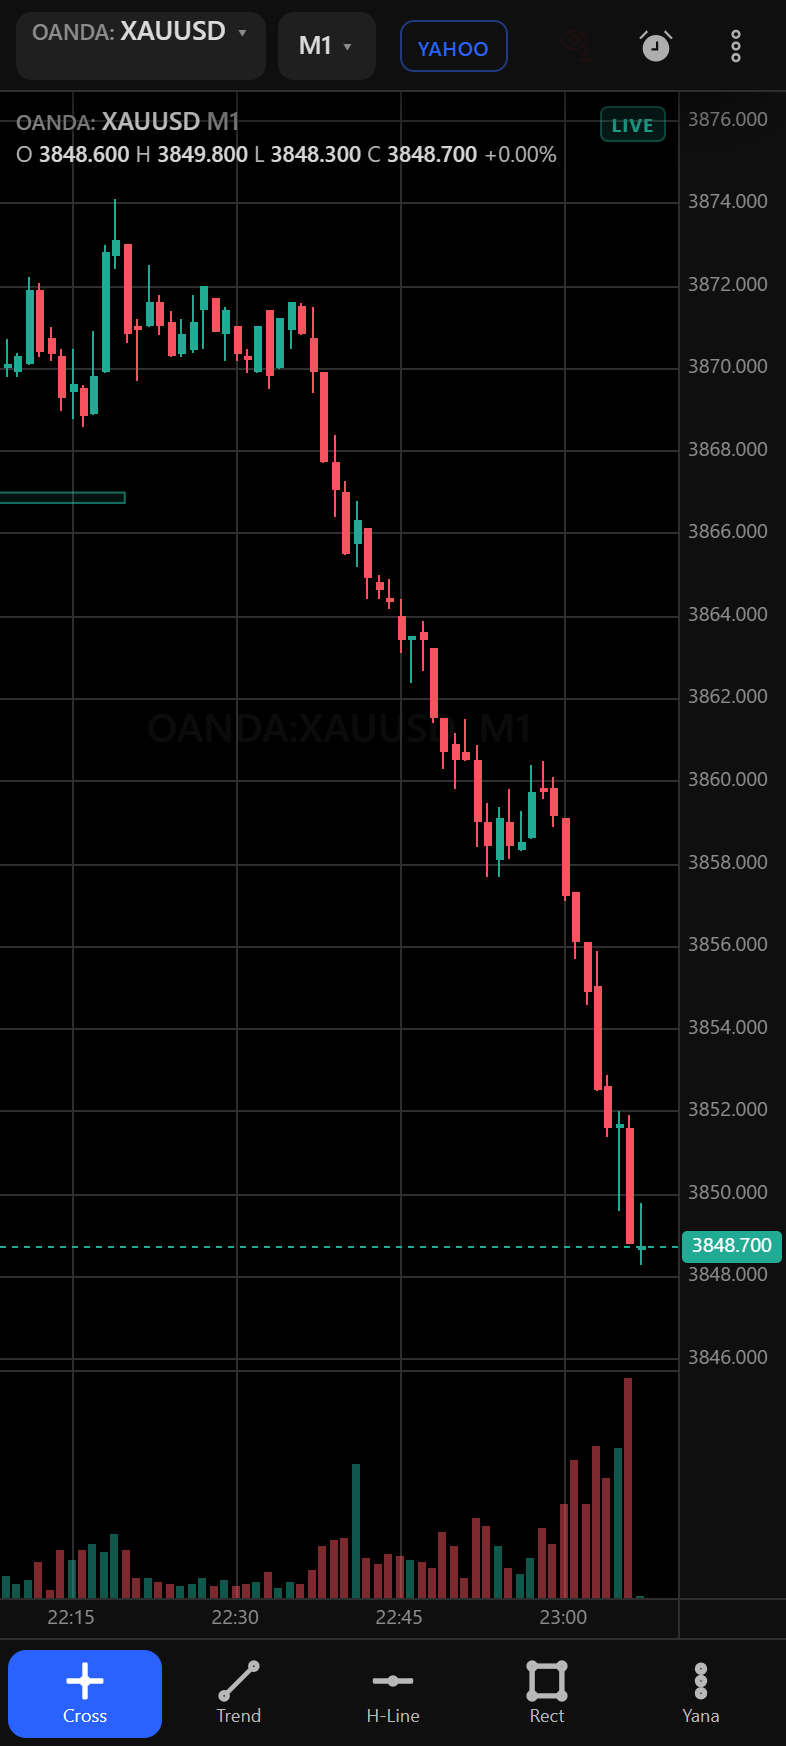
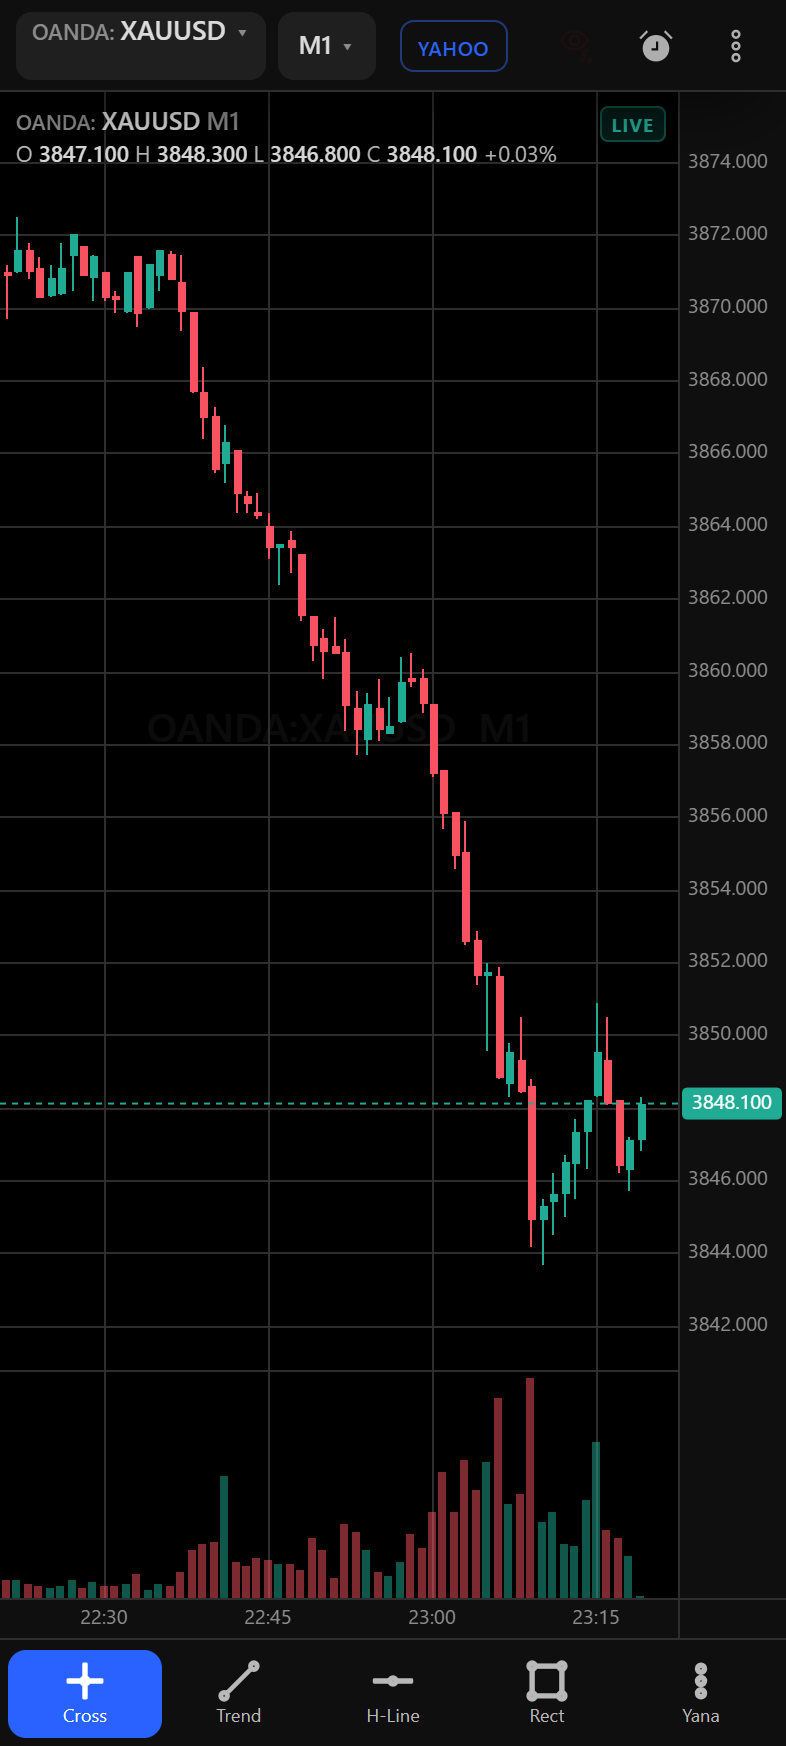
APK v1.2: splash, keep-screen-on, native alert notifications; size analysis docs

diff --git a/mobile/index.html b/mobile/index.html
@@ -1456,6 +1456,10 @@ function askNotify(){
   });
 }
 function notify(title, body){
+  /* APK: native NotificationManager (tray'da ko'rinadi, ilova fonda bo'lsa ham) */
+  try {
+    if (typeof And !== 'undefined' && And && And.notifyAlert) { And.notifyAlert(String(title || ''), String(body || '')); return; }
+  } catch (e0) {}
   /* v7: Android Chrome'da 'new Notification' ishlamaydi -> PWA service worker orqali */
   try {
     if (window.__PWA && window.__PWA.notify) { window.__PWA.notify(title, body); return; }

diff --git a/mobile/src/_m4_ui.js b/mobile/src/_m4_ui.js
@@ -70,6 +70,10 @@ function askNotify(){
   });
 }
 function notify(title, body){
+  /* APK: native NotificationManager (tray'da ko'rinadi, ilova fonda bo'lsa ham) */
+  try {
+    if (typeof And !== 'undefined' && And && And.notifyAlert) { And.notifyAlert(String(title || ''), String(body || '')); return; }
+  } catch (e0) {}
   /* v7: Android Chrome'da 'new Notification' ishlamaydi -> PWA service worker orqali */
   try {
     if (window.__PWA && window.__PWA.notify) { window.__PWA.notify(title, body); return; }

diff --git a/apk-build/java/com/xauview/app/MainActivity.java b/apk-build/java/com/xauview/app/MainActivity.java
@@ -3,6 +3,11 @@ package com.xauview.app;
 import android.annotation.SuppressLint;
 import android.app.Activity;
 import android.app.AlertDialog;
+import android.app.Notification;
+import android.app.NotificationChannel;
+import android.app.NotificationManager;
+import android.app.PendingIntent;
+import android.content.Intent;
 import android.content.DialogInterface;
 import android.content.SharedPreferences;
 import android.graphics.Color;
@@ -28,6 +33,7 @@ public class MainActivity extends Activity {
     private static final String PREFS = "xauview";
     private static final String KEY_URL = "server_url";
     private static final String DEFAULT_URL = "wss://xauview.onrender.com";
+    private static final String CH_ALERTS = "xauview_alerts";
     private WebView web;
     private SharedPreferences prefs;
 
@@ -57,6 +63,8 @@ public class MainActivity extends Activity {
         if (Build.VERSION.SDK_INT >= 21) s.setMixedContentMode(WebSettings.MIXED_CONTENT_ALWAYS_ALLOW);
 
         web.addJavascriptInterface(new Bridge(), "And");
+        web.setKeepScreenOn(true);   // savdo paytida ekran o'chmasin
+        createChannels();
 
         web.setWebChromeClient(new WebChromeClient() {
             @Override
@@ -144,7 +152,44 @@ public class MainActivity extends Activity {
         @JavascriptInterface
         public void chooseServer() { runOnUiThread(new Runnable() { public void run() { askServer(true); } }); }
         @JavascriptInterface
+        public void notifyAlert(final String title, final String body) { showAlertNotification(title, body); }
+
+        @JavascriptInterface
         public String platform() { return "android-apk"; }
+    }
+
+    private void createChannels() {
+        if (Build.VERSION.SDK_INT >= 26) {
+            NotificationManager nm = (NotificationManager) getSystemService(NOTIFICATION_SERVICE);
+            NotificationChannel ch = new NotificationChannel(CH_ALERTS, "XAUView ogohlantirishlar", NotificationManager.IMPORTANCE_HIGH);
+            ch.setDescription("Narx / zona ogohlantirishlari");
+            ch.enableVibration(true);
+            nm.createNotificationChannel(ch);
+        }
+    }
+
+    /** Alert oynasiga native bildirishnoma (tray). WebView fonda bo'lsa ham ko'rinadi. */
+    private void showAlertNotification(final String title, final String body) {
+        runOnUiThread(new Runnable() {
+            public void run() {
+                try {
+                    Intent i = new Intent(MainActivity.this, MainActivity.class);
+                    i.setFlags(Intent.FLAG_ACTIVITY_SINGLE_TOP | Intent.FLAG_ACTIVITY_CLEAR_TOP);
+                    PendingIntent pi = PendingIntent.getActivity(MainActivity.this, 0, i,
+                            PendingIntent.FLAG_UPDATE_CURRENT | PendingIntent.FLAG_IMMUTABLE);
+                    Notification.Builder nb = new Notification.Builder(MainActivity.this, CH_ALERTS)
+                            .setSmallIcon(android.R.drawable.ic_dialog_info)
+                            .setContentTitle(title == null || title.length() == 0 ? "XAUView" : title)
+                            .setContentText(body == null ? "" : body)
+                            .setStyle(new Notification.BigTextStyle().bigText(body == null ? "" : body))
+                            .setAutoCancel(true)
+                            .setWhen(System.currentTimeMillis())
+                            .setContentIntent(pi);
+                    NotificationManager nm = (NotificationManager) getSystemService(NOTIFICATION_SERVICE);
+                    nm.notify((int) (System.currentTimeMillis() % 100000), nb.build());
+                } catch (Throwable t) { }
+            }
+        });
     }
 
     @Override

diff --git a/docs/BUILD-APK.md b/docs/BUILD-APK.md
@@ -79,3 +79,29 @@ powershell -NoProfile -ExecutionPolicy Bypass -File apk-build\build.ps1
 ```
 
 Natija: `D:\Project\AI\tvclone\XAUView.apk` - 483 879 B, sha256 `b0c6ec08...`, imzo o'sha keystore.
+
+## v1.2 - "app" hissi: splash, keep-screen-on, native bildirishnoma
+
+| Qo'shildi | Fayl | Hajmi |
+|---|---|---|
+| Splash (qora fon + logo, oq flash yo'q) | `res/drawable/splash.xml`, `styles.xml windowBackground` | 640 B |
+| Ekran o'chmaydi (savdo paytida) | `MainActivity: web.setKeepScreenOn(true)` | 0 B |
+| Alert -> **native tray bildirishnoma** (ilova fonda bo'lsa ham), bosilganda ilova ochiladi | `Bridge.notifyAlert()` + `NotificationChannel xauview_alerts` + `_m4_ui.js notify()` | ~7 KB dex |
+
+`versionCode 3 / versionName 1.2`, APK **483 949 B**.
+
+### APK ichida nima bor (siqilmagan)
+
+| Entry | Hajm | Nima |
+|---|---|---|
+| `assets/index.html` | 1 470 713 B (460 882 siqilgan) | **butun ilova**: chart dvigateli, gesture'lar, 14 chizma asbobi, Asia-FU indikatori, alert, WS/PWA |
+| `classes.dex` | 13 100 B | native shell (WebView, bridge, notification) - Kotlin YO'Q |
+| `ic_launcher.png` | 5 632 B | ikonka |
+| `resources.arsc` | 1 164 B | matn/rang/uslub |
+| jami | 1 496 423 B -> **477 113 B** (0.32) | |
+
+Taqqoslash uchun TradingView 1.20.87 XAPK: 52.1 MB yuklab olish / **109.4 MB o'rnatilgan**:
+8 ta `classes*.dex` = **77.6 MB** Kotlin kod, `res/raw` = **14 MB** (onboarding videolar mp4),
+`resources.arsc` = 7 MB, shriftlar 2.6 MB; **web qismi faqat 0.97 MB**
+(`assets/dark/index.html` + `feature_chart_kotlin_js_client.js` 350 KB) - ya'ni ularning charti ham WebView'da.
+Demak 50 MB - bu chart sifati emas, balki ulkan native kod + media.

diff --git a/docs/PROGRESS.md b/docs/PROGRESS.md
@@ -512,3 +512,14 @@ APK'da "Menyu -> Manba" ga `wss://xauview.onrender.com` yozish ixtiyoriy.
 - Natija APK: `XAUView.apk` 483 879 B, sha256 `b0c6ec081b82bb40...`, Desktop'ga ham nusxalandi.
 - Eslatma: APK ichidagi ilova "muzlatilgan" (o'z versiyasi bilan); brauzer/PWA esa har doim eng yangi
   (Render'dan). Yangi chart/gesture o'zgarishi -> APK'ni qayta yig'ish.
+
+## 18. APK v1.2 — "app" hissi (splash / keep-screen-on / native bildirishnoma)
+
+- `res/drawable/splash.xml` + `windowBackground` -> ochilishda qora fon + logo (oq flash yo'q).
+- `web.setKeepScreenOn(true)` -> savdo paytida ekran o'chmaydi.
+- `Bridge.notifyAlert(title, body)` + `NotificationChannel 'xauview_alerts'` (IMPORTANCE_HIGH, vibratsiya);
+  `_m4_ui.js notify()` birinchi navbatda native yo'lni chaqiradi -> alert tray'da ko'rinadi, bosilganda ilova ochiladi.
+- `versionCode 3 / versionName 1.2`; APK 483 949 B.
+- Hajm tahlili (nega 0.46 MB): `assets/index.html` 1.47 MB = butun ilova, `classes.dex` 13 KB.
+  TradingView 109 MB (8 dex = 77.6 MB Kotlin, res/raw videolar 14 MB, web qismi 0.97 MB) -
+  ya'ni hajm native kod + media'dan, chart esa ular ham WebView'da.
